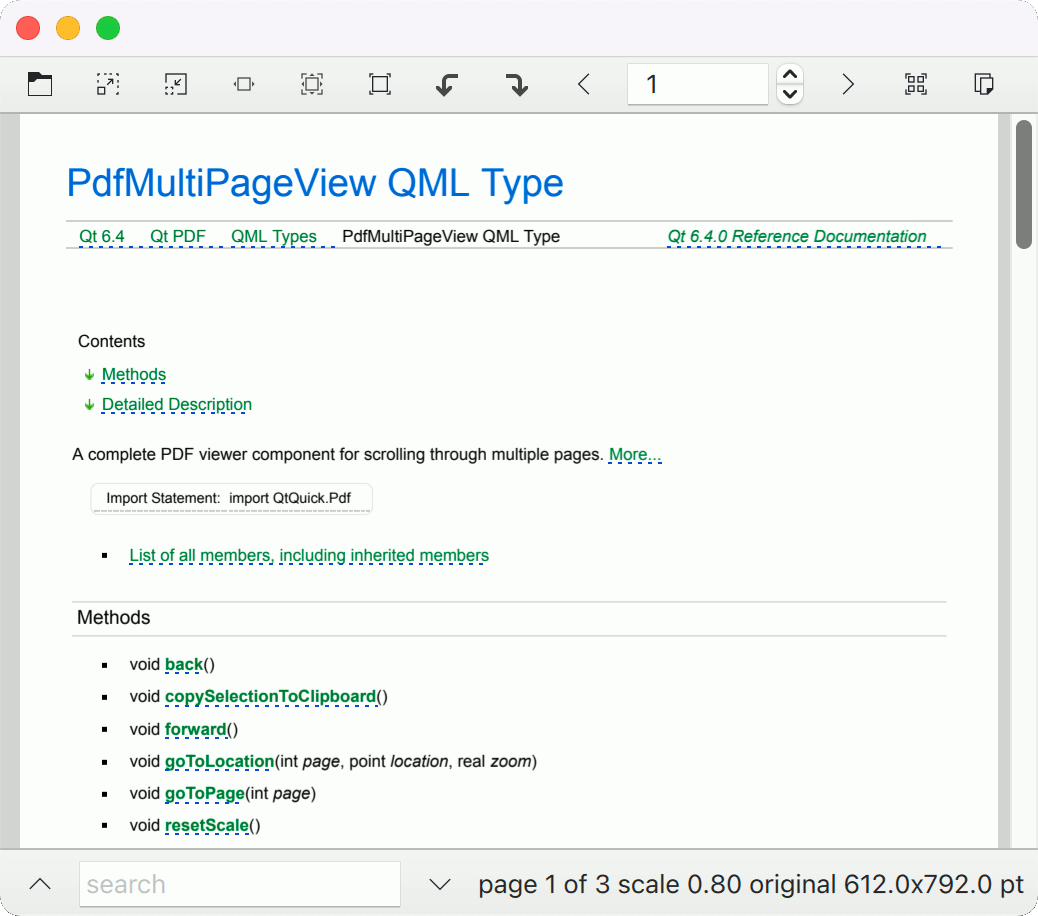
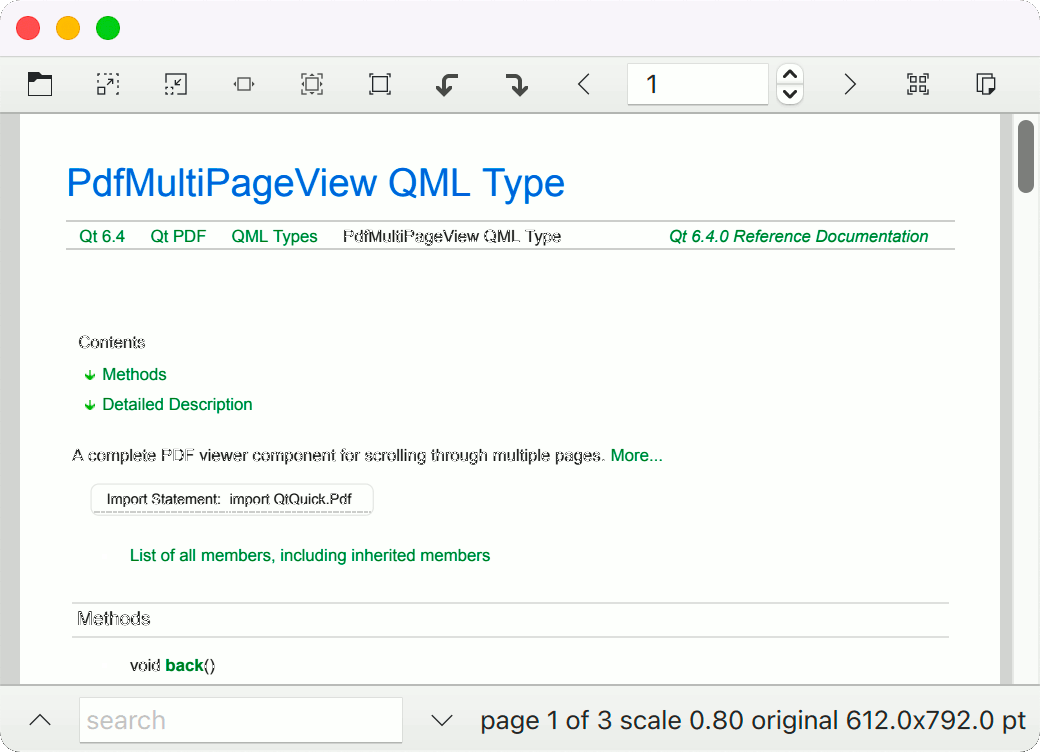
QtPDF: Get styles working again; remove visible hyperlink adornments
Update to versionless imports. The color type comes from the QtQuick
import now. Add the styles to CMakeLists.txt so they get installed.
Use SystemPalette rather than instantiating a Control.

We'd probably better just assume that the PDF has hyperlinks decorated
however the author wanted, rather than risking redundant underlines.
Declare linkUnderscoreStrokeWidth: -1 since the ShapePath.strokeWidth
docs tell us "When set to a negative value, no stroking occurs."
But the user can turn them back on using a custom style.

Update the screenshot: avoid showing off how bad the underscores looked.

PdfPageView doesn't depend on Controls and doesn't import styles:
it simply loses the light-grey rectangles around links. The cursor
change still informs the user when the mouse is hovering a link.

Pick-to: 6.3
Fixes: QTBUG-102303

diff --git a/src/pdfquick/+Universal/PdfStyle.qml b/src/pdfquick/+Universal/PdfStyle.qml
@@ -1,6 +1,6 @@
 /****************************************************************************
 **
-** Copyright (C) 2020 The Qt Company Ltd.
+** Copyright (C) 2022 The Qt Company Ltd.
 ** Contact: https://www.qt.io/licensing/
 **
 ** This file is part of the QtPDF module of the Qt Toolkit.
@@ -36,23 +36,21 @@
 ** $QT_END_LICENSE$
 **
 ****************************************************************************/
-import QtQml 2.14
-import QtQuick 2.14
-import QtQuick.Controls 2.14
-import QtQuick.Controls.Universal 2.14
-import QtQuick.Shapes 1.14
+import QtQuick
+import QtQuick.Controls.Universal
+import QtQuick.Shapes
 
 QtObject {
-    property Control prototypeControl: Control { }
+    property SystemPalette palette: SystemPalette { }
     function withAlpha(color, alpha) {
         return Qt.hsla(color.hslHue, color.hslSaturation, color.hslLightness, alpha)
     }
-    property color selectionColor: withAlpha(prototypeControl.palette.highlight, 0.5)
+    property color selectionColor: withAlpha(palette.highlight, 0.5)
     property color pageSearchResultsColor: withAlpha(Qt.lighter(Universal.accent, 1.5), 0.5)
     property color currentSearchResultStrokeColor: Universal.accent
     property real currentSearchResultStrokeWidth: 2
-    property color linkUnderscoreColor: prototypeControl.palette.link
-    property real linkUnderscoreStrokeWidth: 1
-    property var linkUnderscoreStrokeStyle: ShapePath.DashLine
+    property color linkUnderscoreColor: palette.link
+    property real linkUnderscoreStrokeWidth: -1 // no underlines under hyperlinks
+    property int linkUnderscoreStrokeStyle: ShapePath.DashLine
     property var linkUnderscoreDashPattern: [ 1, 4 ]
 }

diff --git a/src/pdfquick/+Material/PdfStyle.qml b/src/pdfquick/+Material/PdfStyle.qml
@@ -1,6 +1,6 @@
 /****************************************************************************
 **
-** Copyright (C) 2020 The Qt Company Ltd.
+** Copyright (C) 2022 The Qt Company Ltd.
 ** Contact: https://www.qt.io/licensing/
 **
 ** This file is part of the QtPDF module of the Qt Toolkit.
@@ -36,22 +36,21 @@
 ** $QT_END_LICENSE$
 **
 ****************************************************************************/
-import QtQml 2.14
-import QtQuick.Controls 2.14
-import QtQuick.Controls.Material 2.14
-import QtQuick.Shapes 1.14
+import QtQuick
+import QtQuick.Controls.Material
+import QtQuick.Shapes
 
 QtObject {
-    property Control prototypeControl: Control { }
+    property SystemPalette palette: SystemPalette { }
     function withAlpha(color, alpha) {
         return Qt.hsla(color.hslHue, color.hslSaturation, color.hslLightness, alpha)
     }
-    property color selectionColor: withAlpha(prototypeControl.palette.highlight, 0.5)
+    property color selectionColor: withAlpha(palette.highlight, 0.5)
     property color pageSearchResultsColor: withAlpha(Qt.lighter(Material.accentColor, 1.5), 0.5)
     property color currentSearchResultStrokeColor: Material.accentColor
     property real currentSearchResultStrokeWidth: 2
-    property color linkUnderscoreColor: prototypeControl.palette.link
-    property real linkUnderscoreStrokeWidth: 1
-    property var linkUnderscoreStrokeStyle: ShapePath.DashLine
+    property color linkUnderscoreColor: palette.link
+    property real linkUnderscoreStrokeWidth: -1 // no underlines under hyperlinks
+    property int linkUnderscoreStrokeStyle: ShapePath.DashLine
     property var linkUnderscoreDashPattern: [ 1, 4 ]
 }

diff --git a/src/pdfquick/PdfStyle.qml b/src/pdfquick/PdfStyle.qml
@@ -1,6 +1,6 @@
 /****************************************************************************
 **
-** Copyright (C) 2020 The Qt Company Ltd.
+** Copyright (C) 2022 The Qt Company Ltd.
 ** Contact: https://www.qt.io/licensing/
 **
 ** This file is part of the QtPDF module of the Qt Toolkit.
@@ -36,22 +36,21 @@
 ** $QT_END_LICENSE$
 **
 ****************************************************************************/
-import QtQml 2.14
-import QtQuick 2.14
-import QtQuick.Controls 2.14
-import QtQuick.Shapes 1.14
+import QtQuick
+import QtQuick.Controls
+import QtQuick.Shapes
 
 QtObject {
-    property Control prototypeControl: Control { }
+    property SystemPalette palette: SystemPalette { }
     function withAlpha(color, alpha) {
         return Qt.hsla(color.hslHue, color.hslSaturation, color.hslLightness, alpha)
     }
-    property color selectionColor: withAlpha(prototypeControl.palette.highlight, 0.5)
+    property color selectionColor: withAlpha(palette.highlight, 0.5)
     property color pageSearchResultsColor: "#80B0C4DE"
     property color currentSearchResultStrokeColor: "cyan"
     property real currentSearchResultStrokeWidth: 2
-    property color linkUnderscoreColor: prototypeControl.palette.link
-    property real linkUnderscoreStrokeWidth: 1
-    property var linkUnderscoreStrokeStyle: ShapePath.DashLine
+    property color linkUnderscoreColor: palette.link
+    property real linkUnderscoreStrokeWidth: -1 // no underlines under hyperlinks
+    property int linkUnderscoreStrokeStyle: ShapePath.DashLine
     property var linkUnderscoreDashPattern: [ 1, 4 ]
 }

diff --git a/src/pdfquick/PdfPageView.qml b/src/pdfquick/PdfPageView.qml
@@ -217,9 +217,7 @@ Rectangle {
             document: root.document
             page: navigationStack.currentPage
         }
-        delegate: Rectangle {
-            color: "transparent"
-            border.color: "lightgrey"
+        delegate: Item {
             x: rect.x * image.pageScale
             y: rect.y * image.pageScale
             width: rect.width * image.pageScale
